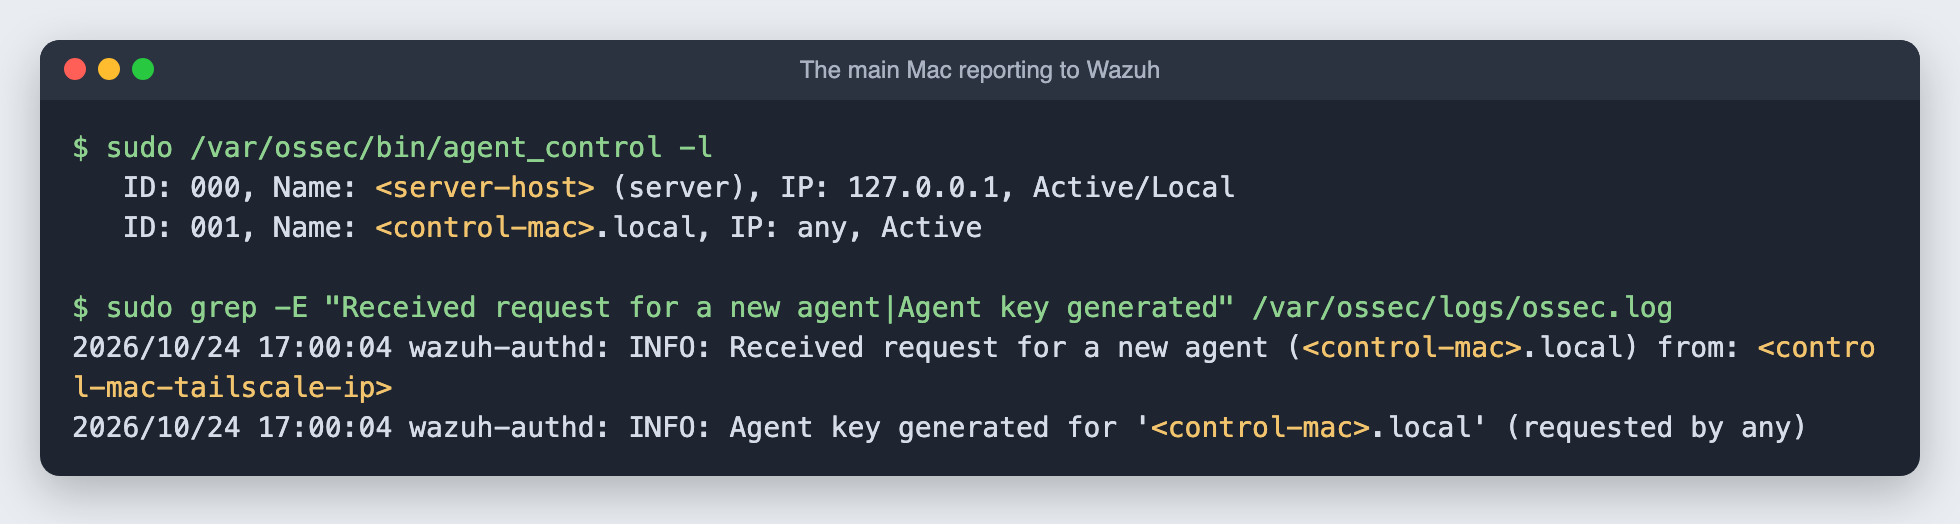
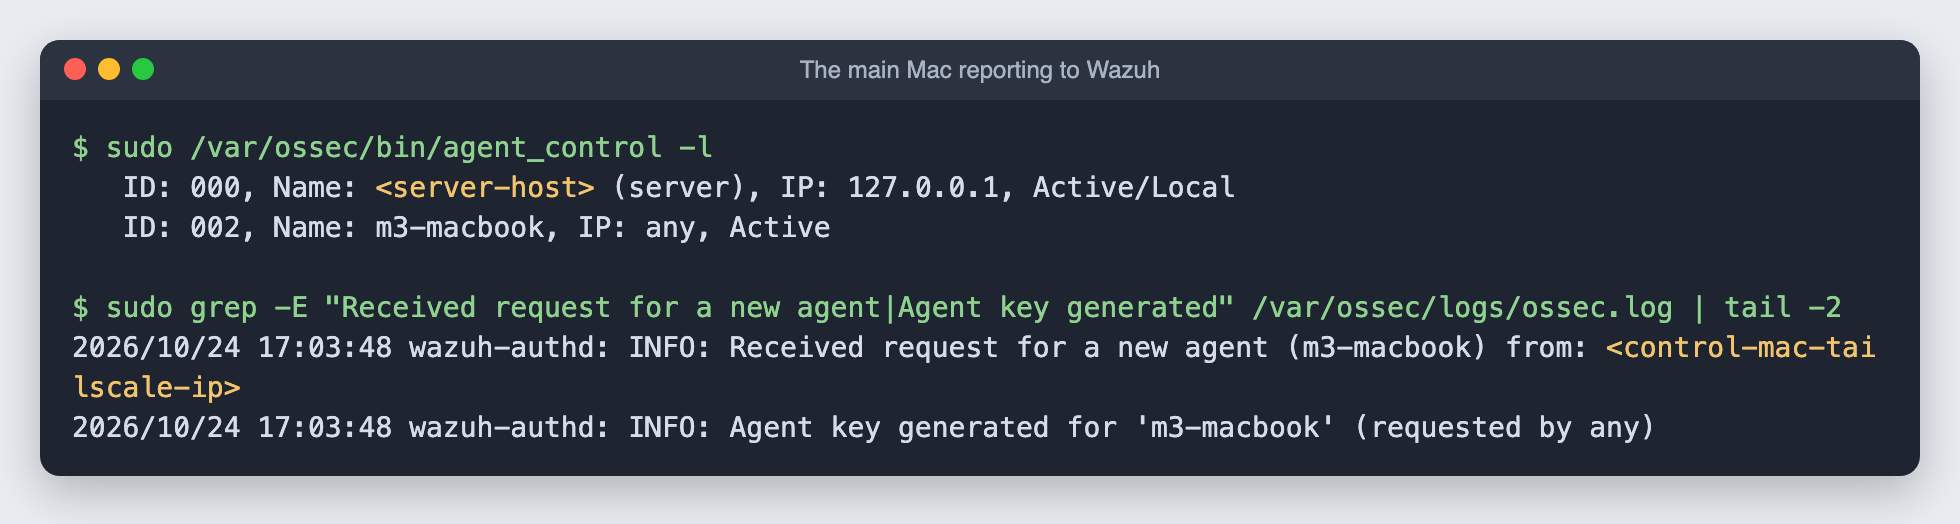
Document renaming the main Mac's Wazuh agent
Adds the re-enrollment steps and script, and updates the agent list
screenshot to show m3-macbook as Active.

diff --git a/docs/11-wazuh.md b/docs/11-wazuh.md
@@ -103,7 +103,22 @@ sudo perl -0pi -e 's#<address>MANAGER_IP</address>#<address><server-tailscale-ip
 sudo /Library/Ossec/bin/wazuh-control restart
 ```
 
-The old file also had no enrollment section, so the agent registered under the Mac's computer name instead of `m3-macbook`. Wazuh cannot rename an agent; changing the name means removing it on the server and enrolling it again.
+### Renaming the agent
+
+The old file also had no `<enrollment>` section, so the agent registered under the Mac's computer name (which includes my name) instead of `m3-macbook`. Wazuh cannot rename an agent in place. Remove it on the server and enroll it again:
+
+```bash
+# On the server: remove the old entry (use its ID from agent_control -l)
+echo y | sudo /var/ossec/bin/manage_agents -r 001
+```
+
+On the Mac, [`scripts/rename-wazuh-agent-macos.sh`](../scripts/rename-wazuh-agent-macos.sh) stops the agent, backs up `ossec.conf`, adds an `<enrollment>` section with the new `<agent_name>`, empties `client.keys` so the agent asks for a new identity, and starts it again:
+
+```bash
+sudo bash rename-wazuh-agent-macos.sh
+```
+
+It shows up as **Pending** for a few seconds, then **Active** under a new ID.
 
 ![The main Mac reporting to Wazuh](../screenshots/19-wazuh-agents.png)
 
